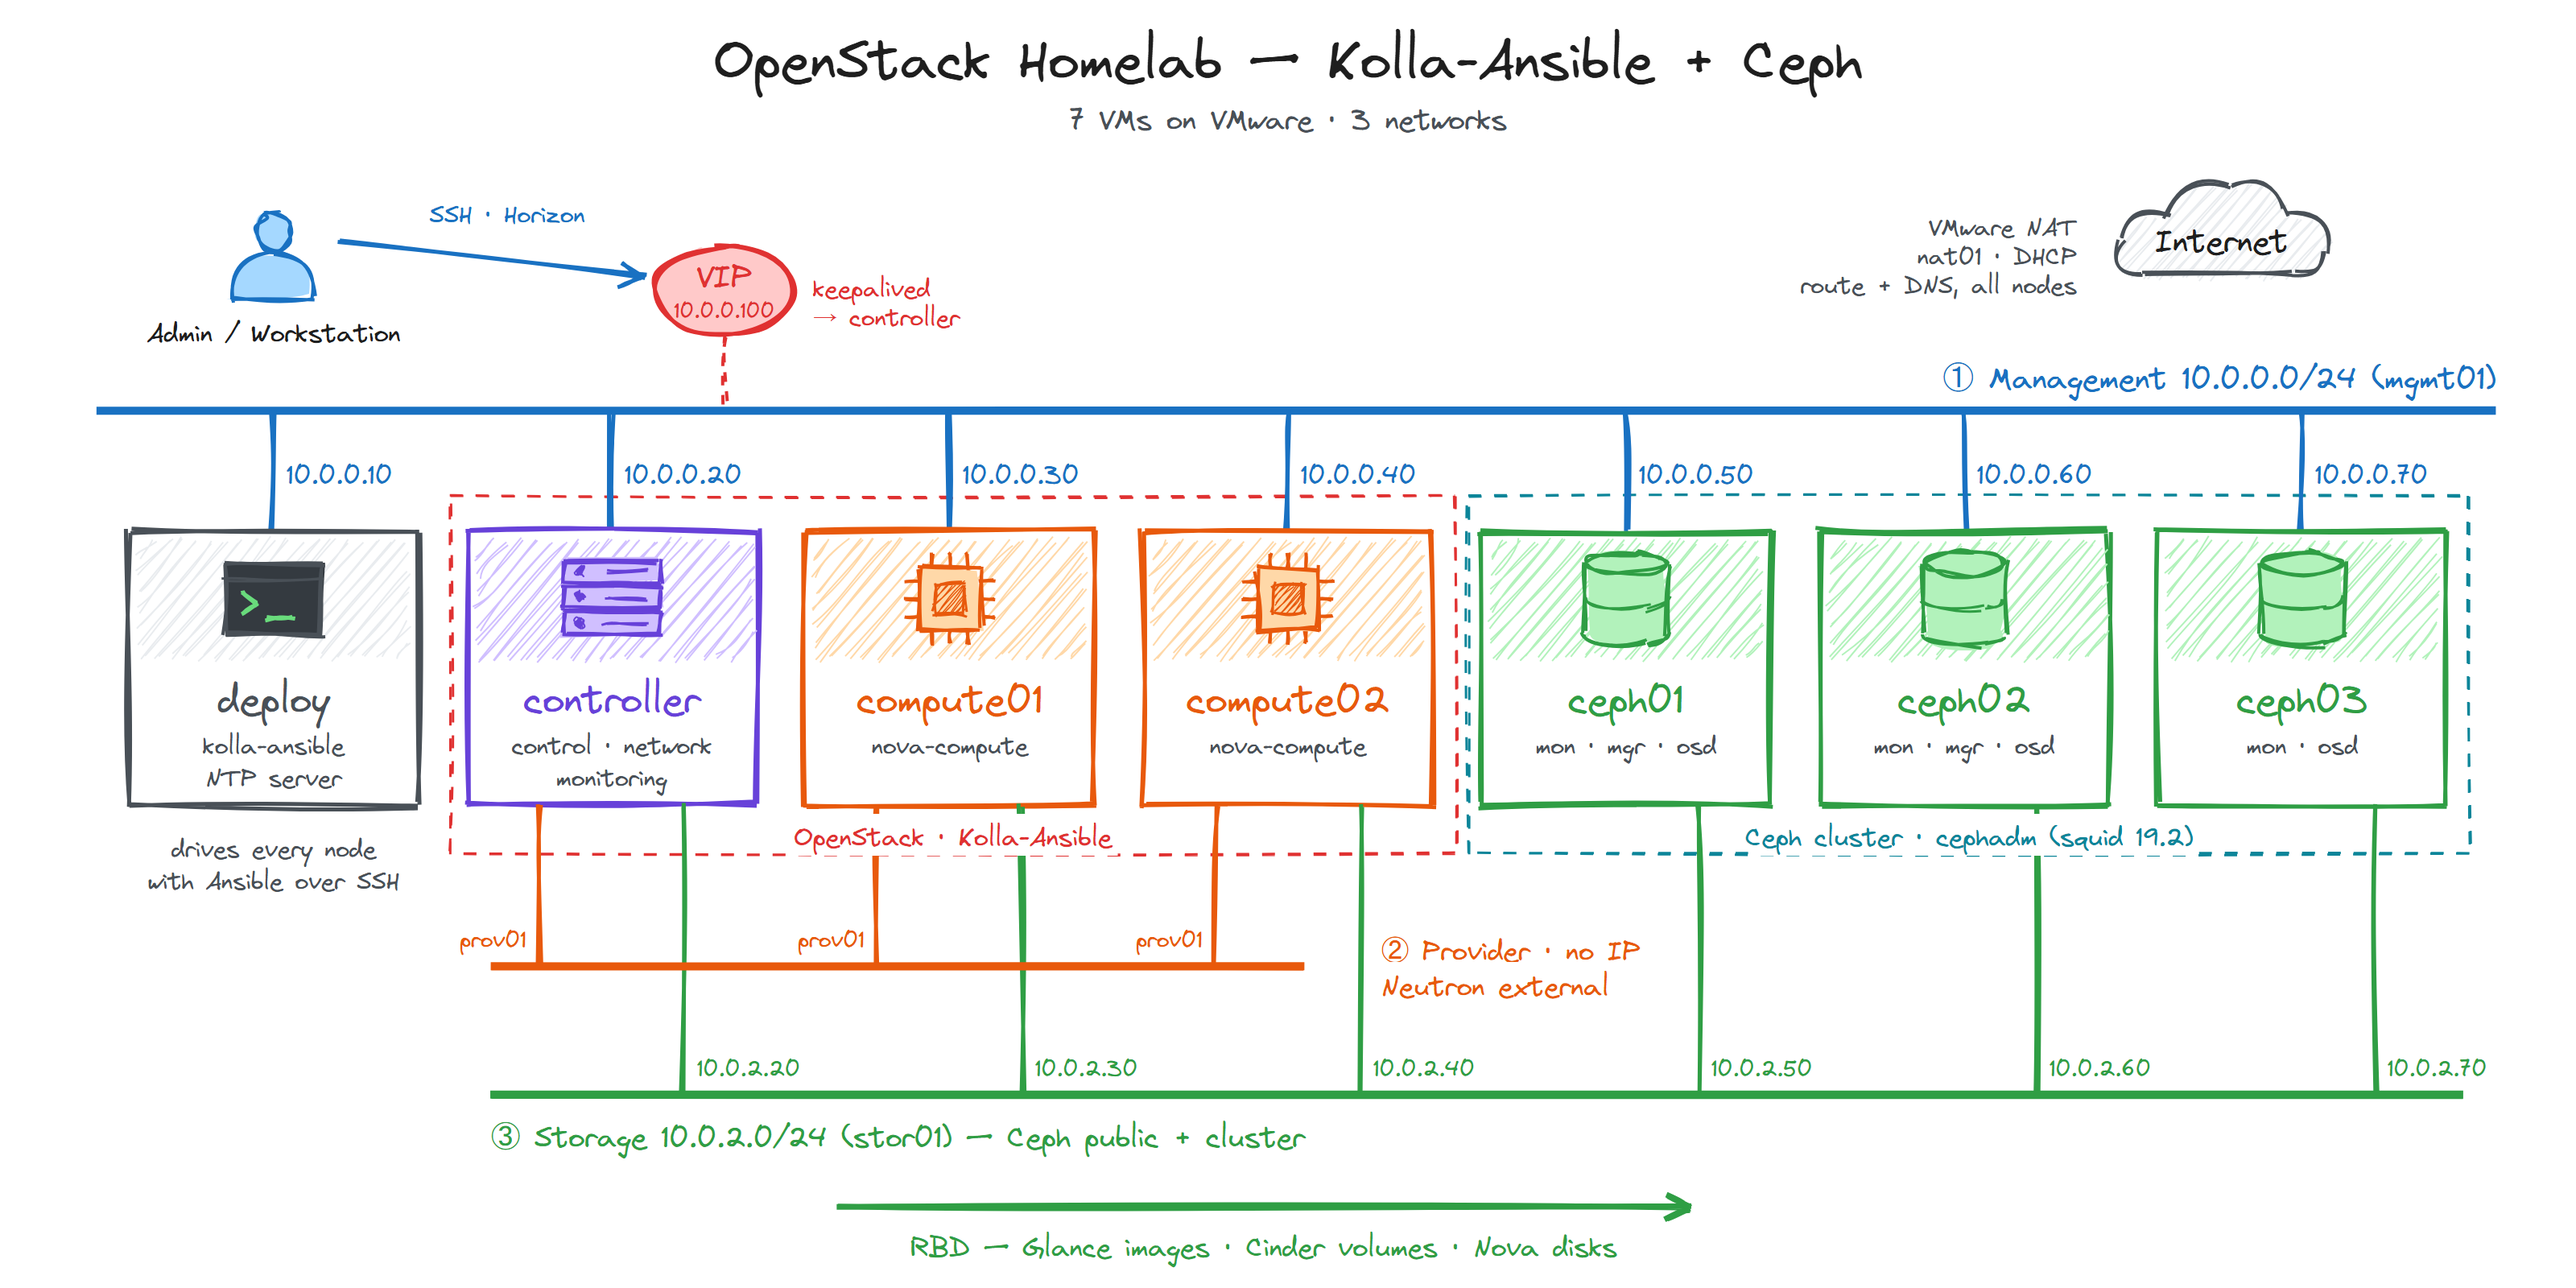
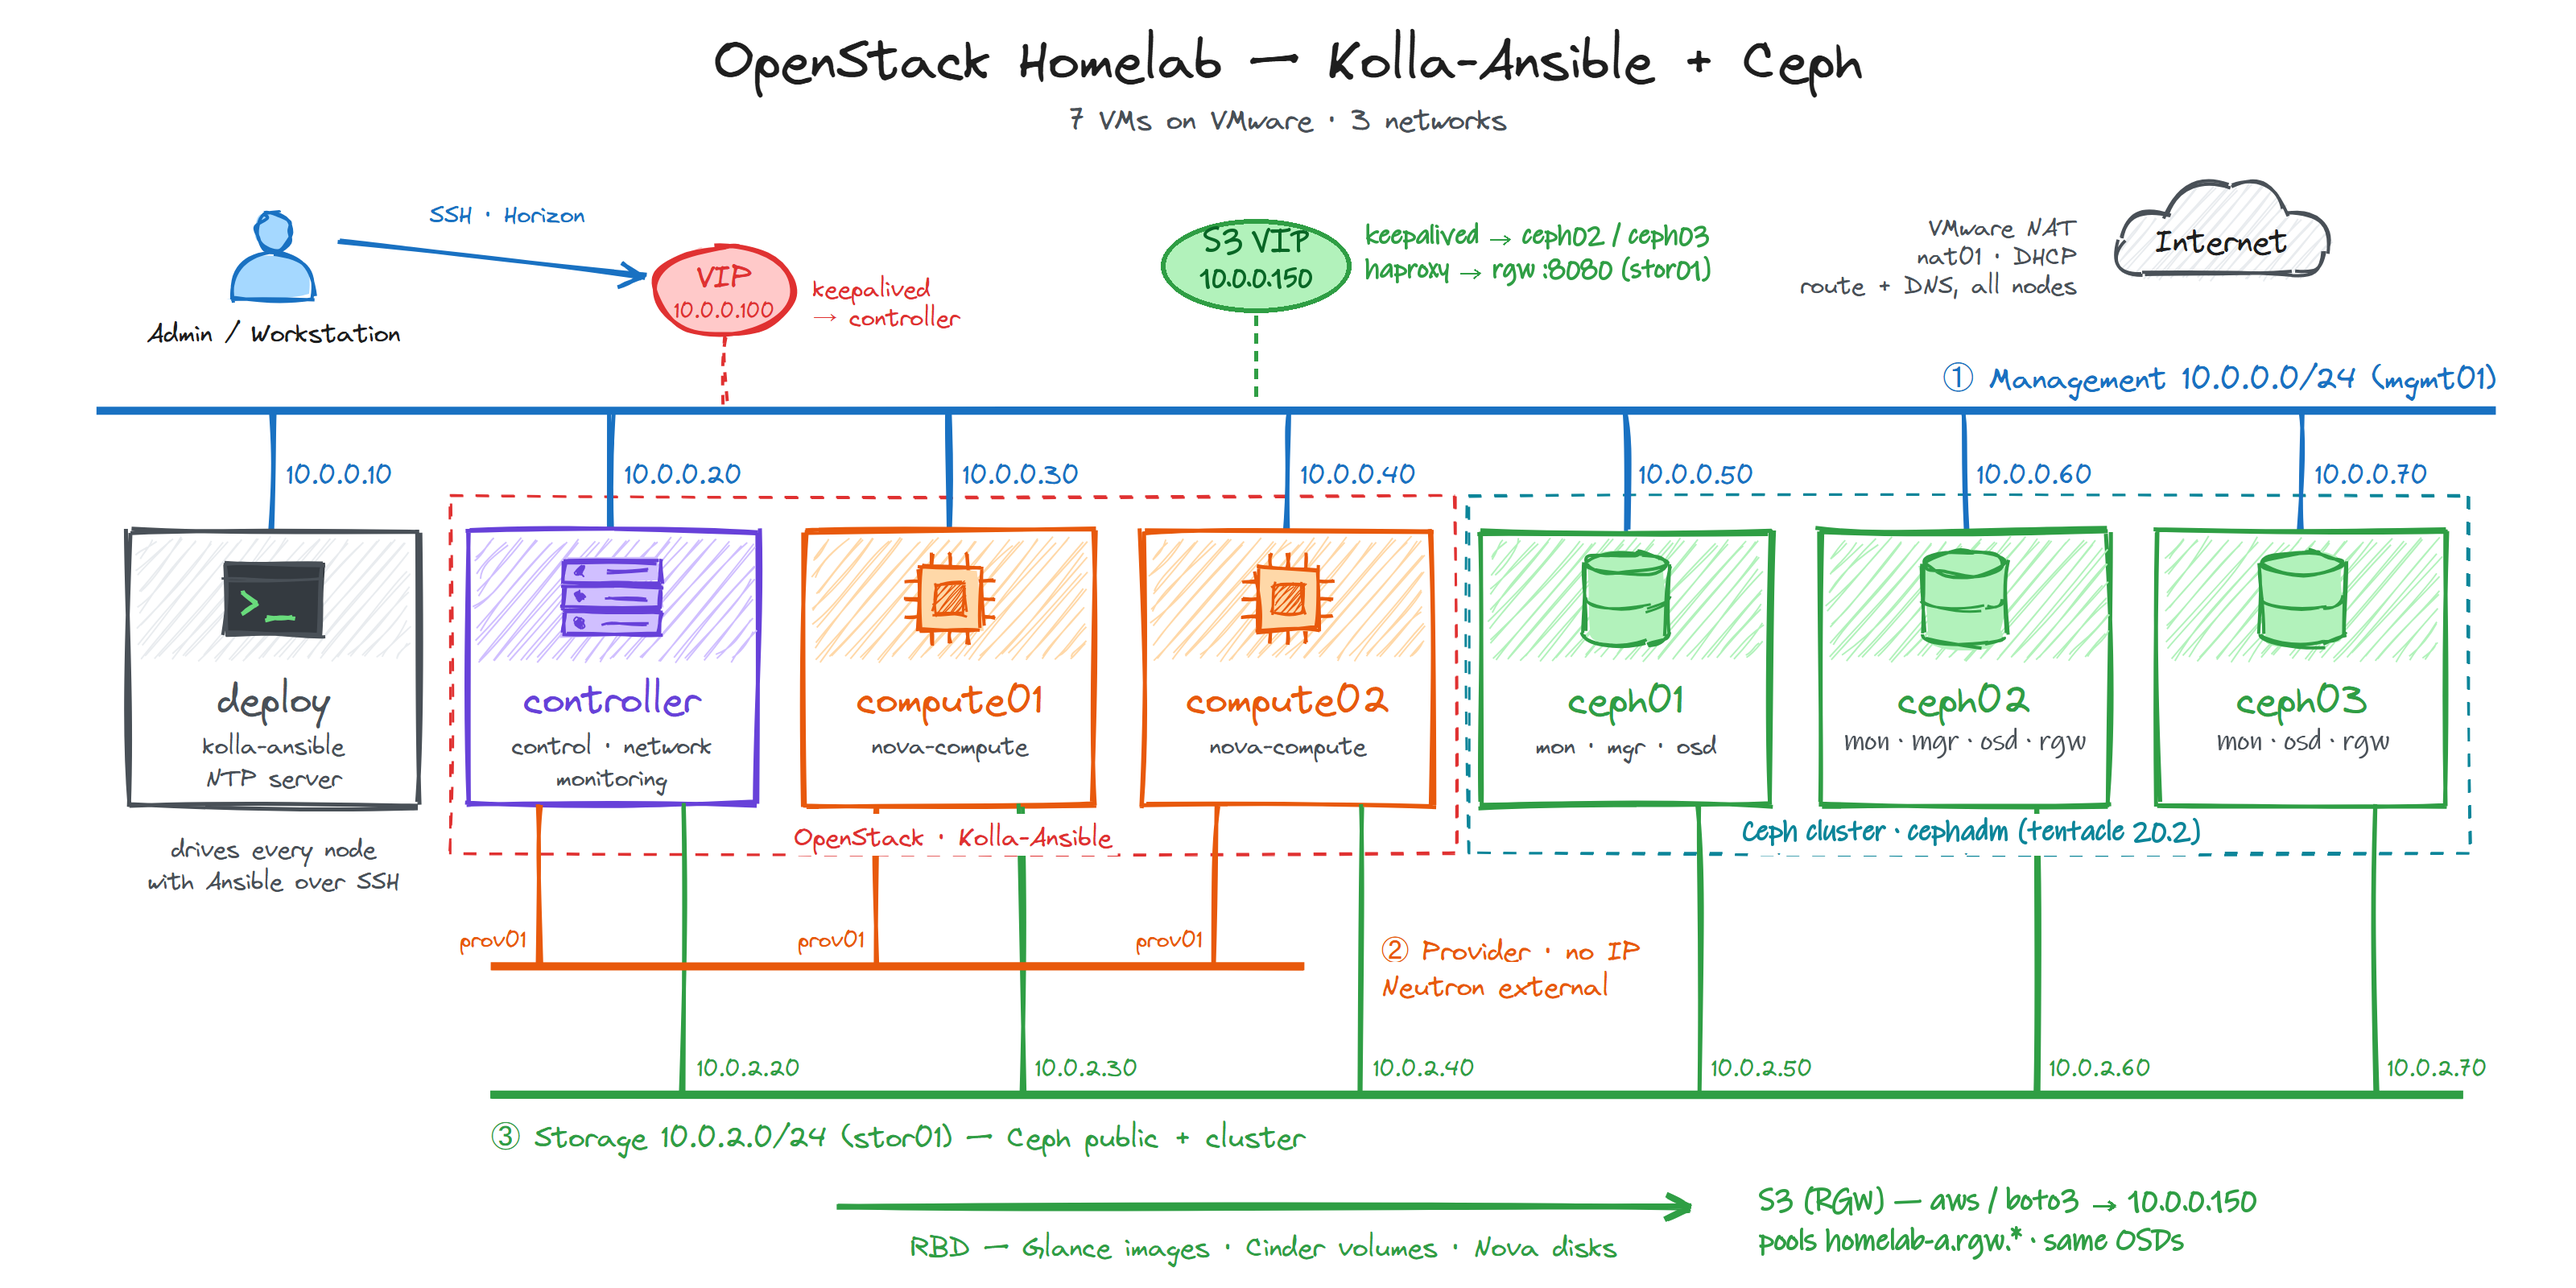
docs: bring docs and diagram up to date with tentacle and s3
- architecture.png: cluster on tentacle 20.2, rgw on ceph02 and ceph03,
  S3 VIP 10.0.0.150 on the management network and the S3 path
- README: object storage row, rgw roles, S3 VIP in the hosts and
  networks tables, CephX key state
- ceph/OPERATIONS.md: config/mutes, rgw, release and rootfs in the
  "what lives where" table, rgw in the health check, upgrade playbook,
  tentacle noble builds, what /root/ceph-backups holds
- ceph/README.md: dashboard notes dated to reef, Overview page caveat
- ceph-setup.sh: tentacle repo, steps that exist only as playbooks

diff --git a/ceph/OPERATIONS.md b/ceph/OPERATIONS.md
@@ -5,8 +5,9 @@ adding and removing disks and nodes, upgrades, backups. The build itself is in
 [README.md](README.md).
 
 Lab assumptions: 3 nodes (`ceph01`-`ceph03`) with 2 OSDs each, 3 MONs, 2 MGRs,
-pools `images` / `volumes` / `vms` at `size 3` / `min_size 2` with failure
-domain = host, release tentacle (upgrades below). `ceph` commands run as root on **ceph01** or **ceph02** (both
+2 RGW gateways (ceph02, ceph03) behind the S3 VIP `10.0.0.150`, pools
+`images` / `volumes` / `vms` at `size 3` / `min_size 2` with failure
+domain = host, release tentacle 20.2.5 (upgrades below). `ceph` commands run as root on **ceph01** or **ceph02** (both
 carry the `_admin` label, so cephadm keeps `/etc/ceph/ceph.conf` and the admin
 keyring on them), or in `cephadm shell`.
 
@@ -18,6 +19,10 @@ deploy VM (`source ~/venv/bin/activate`, repo root):
 | Hosts, storage IPs, labels (`_admin`, `mon`, `mgr`) | `inventory/hosts.yml` (`ceph_nodes`, `ceph_labels`) | `ceph-cluster.yml --tags specs` |
 | MON / MGR placement (hosts with the `mon` / `mgr` label), OSDs on every empty disk | `inventory/group_vars/ceph_nodes.yml`, `playbooks/roles/ceph_specs/templates/cluster-spec.yml.j2` | `ceph-cluster.yml --tags specs` |
 | Pools, CephX users, Kolla keyrings | `inventory/group_vars/ceph_nodes.yml` | `ceph-pools.yml` |
+| Config options (OSD memory), accepted health mutes | `inventory/group_vars/ceph_nodes.yml` (`ceph_config`, `ceph_health_mutes`) | `ceph-cluster.yml --tags config` |
+| S3 gateway: hosts (`rgw` label), port, realm/zone, ingress VIP | `inventory/hosts.yml`, `inventory/group_vars/ceph_nodes.yml` (`ceph_rgw_*`) | `ceph-cluster.yml --tags rgw` |
+| Release, upgrade targets | `inventory/group_vars/ceph_nodes.yml` (`ceph_release`, `ceph_upgrade_versions`) | `ceph-prereqs.yml`, `ceph-upgrade.yml` |
+| Root filesystem size (grow into the free VG space) | `playbooks/roles/ceph_prereqs/defaults/main.yml` | `ceph-prereqs.yml --tags rootfs` |
 
 Change these files, not the cluster by hand: a later run puts the repo's
 state back. Preview with `--check --diff`.
@@ -34,7 +39,7 @@ to it, one daemon at a time.
 | `ceph osd ok-to-stop <id>`, `ceph mon ok-to-stop <id>`, `ceph orch host ok-to-stop <host>` | "Can this go down without losing I/O or quorum?" |
 | `ceph orch host maintenance enter/exit <host>` | Take one node down: stops its daemons, sets noout for it |
 | `ceph osd set noout` / `norebalance` | No data movement during a short outage |
-| `ceph orch upgrade start` | Rolling upgrade in the right order (MGR → MON → OSD …) |
+| `ceph-upgrade.yml -e ceph_upgrade_to=<release>` | Rolling upgrade (`ceph orch upgrade start`: MGR → MON → OSD …), see [Upgrades](#upgrades) |
 
 Use the same loop for every change:
 
@@ -51,9 +56,10 @@ Health check, daily and before and after every change, from the deploy VM:
 ansible-playbook playbooks/health.yml --tags ceph    # or without --tags: the whole lab
 ```
 
-It checks HEALTH_OK, MON quorum, OSDs up/in, PGs active+clean, the fullest OSD
-against the 40% rule ([Capacity](#capacity)), cephadm daemons and new crashes,
-and fails if anything is wrong. For details, on ceph01: `ceph health detail`,
+It checks HEALTH_OK (muted checks are listed apart), MON quorum, OSDs up/in,
+PGs active+clean, the fullest OSD against the 40% rule
+([Capacity](#capacity)), cephadm daemons, new crashes, and that both RGW
+gateways and the S3 VIP answer, and fails if anything is wrong. For details, on ceph01: `ceph health detail`,
 `ceph osd df tree`, `ceph orch ps --refresh`, `ceph crash ls-new`.
 
 ## Node maintenance
@@ -228,8 +234,9 @@ instance from a Glance image, attach a Cinder volume). Repeat with
   refresh; the code is the same in squid and tentacle). The Gateways, Users
   and Buckets pages are fine.
 - **Operating system:** standard support for Ubuntu 22.04 ends in 2027. Move
-  the Ceph nodes to 24.04 one at a time in maintenance mode. Check first that
-  download.ceph.com publishes noble builds of your Ceph release.
+  the Ceph nodes to 24.04 one at a time in maintenance mode. download.ceph.com
+  publishes noble builds of tentacle (checked 2026-11-27), so `ceph-prereqs.yml`
+  works on 24.04 nodes as well.
 
 
 ## CephX key types
@@ -313,5 +320,9 @@ and the same `reconfigure`.
   ceph orch ls --export > specs.yml
   ceph mon dump > monmap.txt
   ```
+- **What the playbooks already keep** on ceph01, in `/root/ceph-backups/`
+  (root only): `ceph orch ls --export` before every spec apply, the cluster
+  state before every upgrade (`upgrade-<ts>-to-<version>.txt`), and the key
+  export taken before the CephX rotation (secret). Copy them off with the rest.
 - **Power off / power on** order (Ceph after OpenStack, with `noout`): see
   [kolla/OPERATIONS.md](../kolla/OPERATIONS.md#power-off--power-on-the-lab).

diff --git a/README.md b/README.md
@@ -3,11 +3,11 @@
 A multi-node **OpenStack 2026.1** cloud deployed with
 **[Kolla-Ansible](https://docs.openstack.org/kolla-ansible/latest/)** on 7 VMware
 VMs, with a 3-node **Ceph** cluster (cephadm) as the storage backend for images,
-volumes and VM disks. Everything needed to rebuild it is in this repo: the
-Ansible playbooks that prepare the nodes, per-VM network config, the Ceph
-playbooks and the Kolla configuration.
+volumes and VM disks, and as an **S3** object store (RGW). Everything needed to
+rebuild it is in this repo: the Ansible playbooks that prepare the nodes,
+per-VM network config, the Ceph playbooks and the Kolla configuration.
 
-![Architecture: 7 VMs on the management, provider and storage networks](docs/architecture.png)
+![Architecture: 7 VMs on the management, provider and storage networks, with the OpenStack VIP and the S3 VIP](docs/architecture.png)
 
 ## What's inside
 
@@ -15,7 +15,8 @@ playbooks and the Kolla configuration.
 |-----------|---------|-------|
 | OpenStack | 2026.1 (Gazpacho) | Keystone, Glance, Nova, Neutron (Open vSwitch), Cinder, Horizon, behind HAProxy + keepalived |
 | Kolla-Ansible | 22.x | Upstream images from `quay.io/openstack.kolla`, Docker runtime |
-| Ceph | Tentacle 20.2.5 (`ceph_release`; upgraded from Reef with `ceph-upgrade.yml`) | cephadm, 3 MONs, 6 OSDs, 3 replicas; RBD pools `images`, `volumes`, `vms` |
+| Ceph | Tentacle 20.2.5 (`ceph_release`; upgraded from Reef with `ceph-upgrade.yml`) | cephadm, 3 MONs, 6 OSDs, 3 replicas; RBD pools `images`, `volumes`, `vms`; CephX keys `aes256k` except OpenStack's two ([why](ceph/OPERATIONS.md#cephx-key-types)) |
+| Object storage | Ceph RGW (S3), standalone | Gateways on ceph02 + ceph03 behind haproxy + keepalived, S3 VIP `10.0.0.150`; local RGW users, no Keystone ([ceph/README.md](ceph/README.md#object-storage-rgw-s3)) |
 | Ubuntu | 24.04 (OpenStack nodes), 22.04 (deploy VM, Ceph nodes) | |
 | Ansible | ansible-core 2.20 (Kolla), 2.16+ (this repo's playbooks) | |
 
@@ -28,9 +29,10 @@ playbooks and the Kolla configuration.
 | compute01  | Nova compute (KVM)                 | 4    | 8 GB | 50 GB              | 10.0.0.30      | 10.0.2.30   |
 | compute02  | Nova compute (KVM)                 | 4    | 8 GB | 50 GB              | 10.0.0.40      | 10.0.2.40   |
 | ceph01     | Ceph mon · mgr · osd               | 4    | 8 GB | 50 GB + 2 × 100 GB | 10.0.0.50      | 10.0.2.50   |
-| ceph02     | Ceph mon · mgr · osd               | 4    | 8 GB | 50 GB + 2 × 100 GB | 10.0.0.60      | 10.0.2.60   |
-| ceph03     | Ceph mon · osd                     | 4    | 8 GB | 50 GB + 2 × 100 GB | 10.0.0.70      | 10.0.2.70   |
+| ceph02     | Ceph mon · mgr · osd · rgw         | 4    | 8 GB | 50 GB + 2 × 100 GB | 10.0.0.60      | 10.0.2.60   |
+| ceph03     | Ceph mon · osd · rgw               | 4    | 8 GB | 50 GB + 2 × 100 GB | 10.0.0.70      | 10.0.2.70   |
 | **VIP**    | `kolla_internal_vip_address`       |      |      |                    | **10.0.0.100** | —           |
+| **S3 VIP** | `ceph_rgw_vip` (keepalived on ceph02/03) |  |   |                    | **10.0.0.150** | —           |
 
 About 28 vCPU and 52 GB RAM in total. The compute VMs need nested
 virtualization (VMware: *Virtualize Intel VT-x/EPT or AMD-V/RVI*), otherwise
@@ -41,9 +43,9 @@ virtualization (VMware: *Virtualize Intel VT-x/EPT or AMD-V/RVI*), otherwise
 | # | Name       | CIDR          | NIC      | Purpose |
 |---|------------|---------------|----------|---------|
 | — | NAT        | DHCP (VMware) | `nat01`  | Internet access, default route + DNS, every VM |
-| ① | Management | 10.0.0.0/24   | `mgmt01` | SSH, Ansible, OpenStack APIs, VIP (`network_interface`) |
+| ① | Management | 10.0.0.0/24   | `mgmt01` | SSH, Ansible, OpenStack APIs, VIP (`network_interface`), S3 clients via the S3 VIP 10.0.0.150 |
 | ② | Provider   | no IP         | `prov01` | Neutron external network (`neutron_external_interface`), controller + computes |
-| ③ | Storage    | 10.0.2.0/24   | `stor01` | Ceph public + cluster traffic, OpenStack → Ceph RBD (`storage_interface`) |
+| ③ | Storage    | 10.0.2.0/24   | `stor01` | Ceph public + cluster traffic, OpenStack → Ceph RBD (`storage_interface`), RGW gateways behind the S3 VIP |
 
 NICs are matched by MAC and renamed by [netplan](netplan/README.md), so the names
 are the same on every VM.

diff --git a/ceph/README.md b/ceph/README.md
@@ -117,9 +117,13 @@ client ──► http://10.0.0.150:80  (keepalived VIP on mgmt01, haproxy on cep
   in `inventory/hosts.yml`. Each gateway listens on its storage IP
   (`ceph_rgw_networks`), port `ceph_rgw_port`.
 - **Why the storage network:** the dashboard's Object Gateway pages call RGW
-  at the daemons' Ceph public address (the storage IP); Reef has no setting
-  to change it. Gateways bound to the management IP show "The Object Gateway
-  Service is not configured ... Connection refused".
+  at the daemons' Ceph public address (the storage IP); Reef 18.2.8, where
+  this was set up, had no setting to change it. Gateways bound to the
+  management IP show "The Object Gateway Service is not configured ...
+  Connection refused".
+- **Dashboard:** the Gateways, Users and Buckets pages work; the *Overview*
+  page piles up requests on every refresh and freezes the browser tab (same
+  code in squid and tentacle), so open the other pages directly.
 - **Realm / zonegroup / zone:** `homelab` / `homelab` / `homelab-a`, a
   single-site layout that can grow into multisite. The pools are created by
   RGW on first start and named after the zone (`homelab-a.rgw.*`), plus
